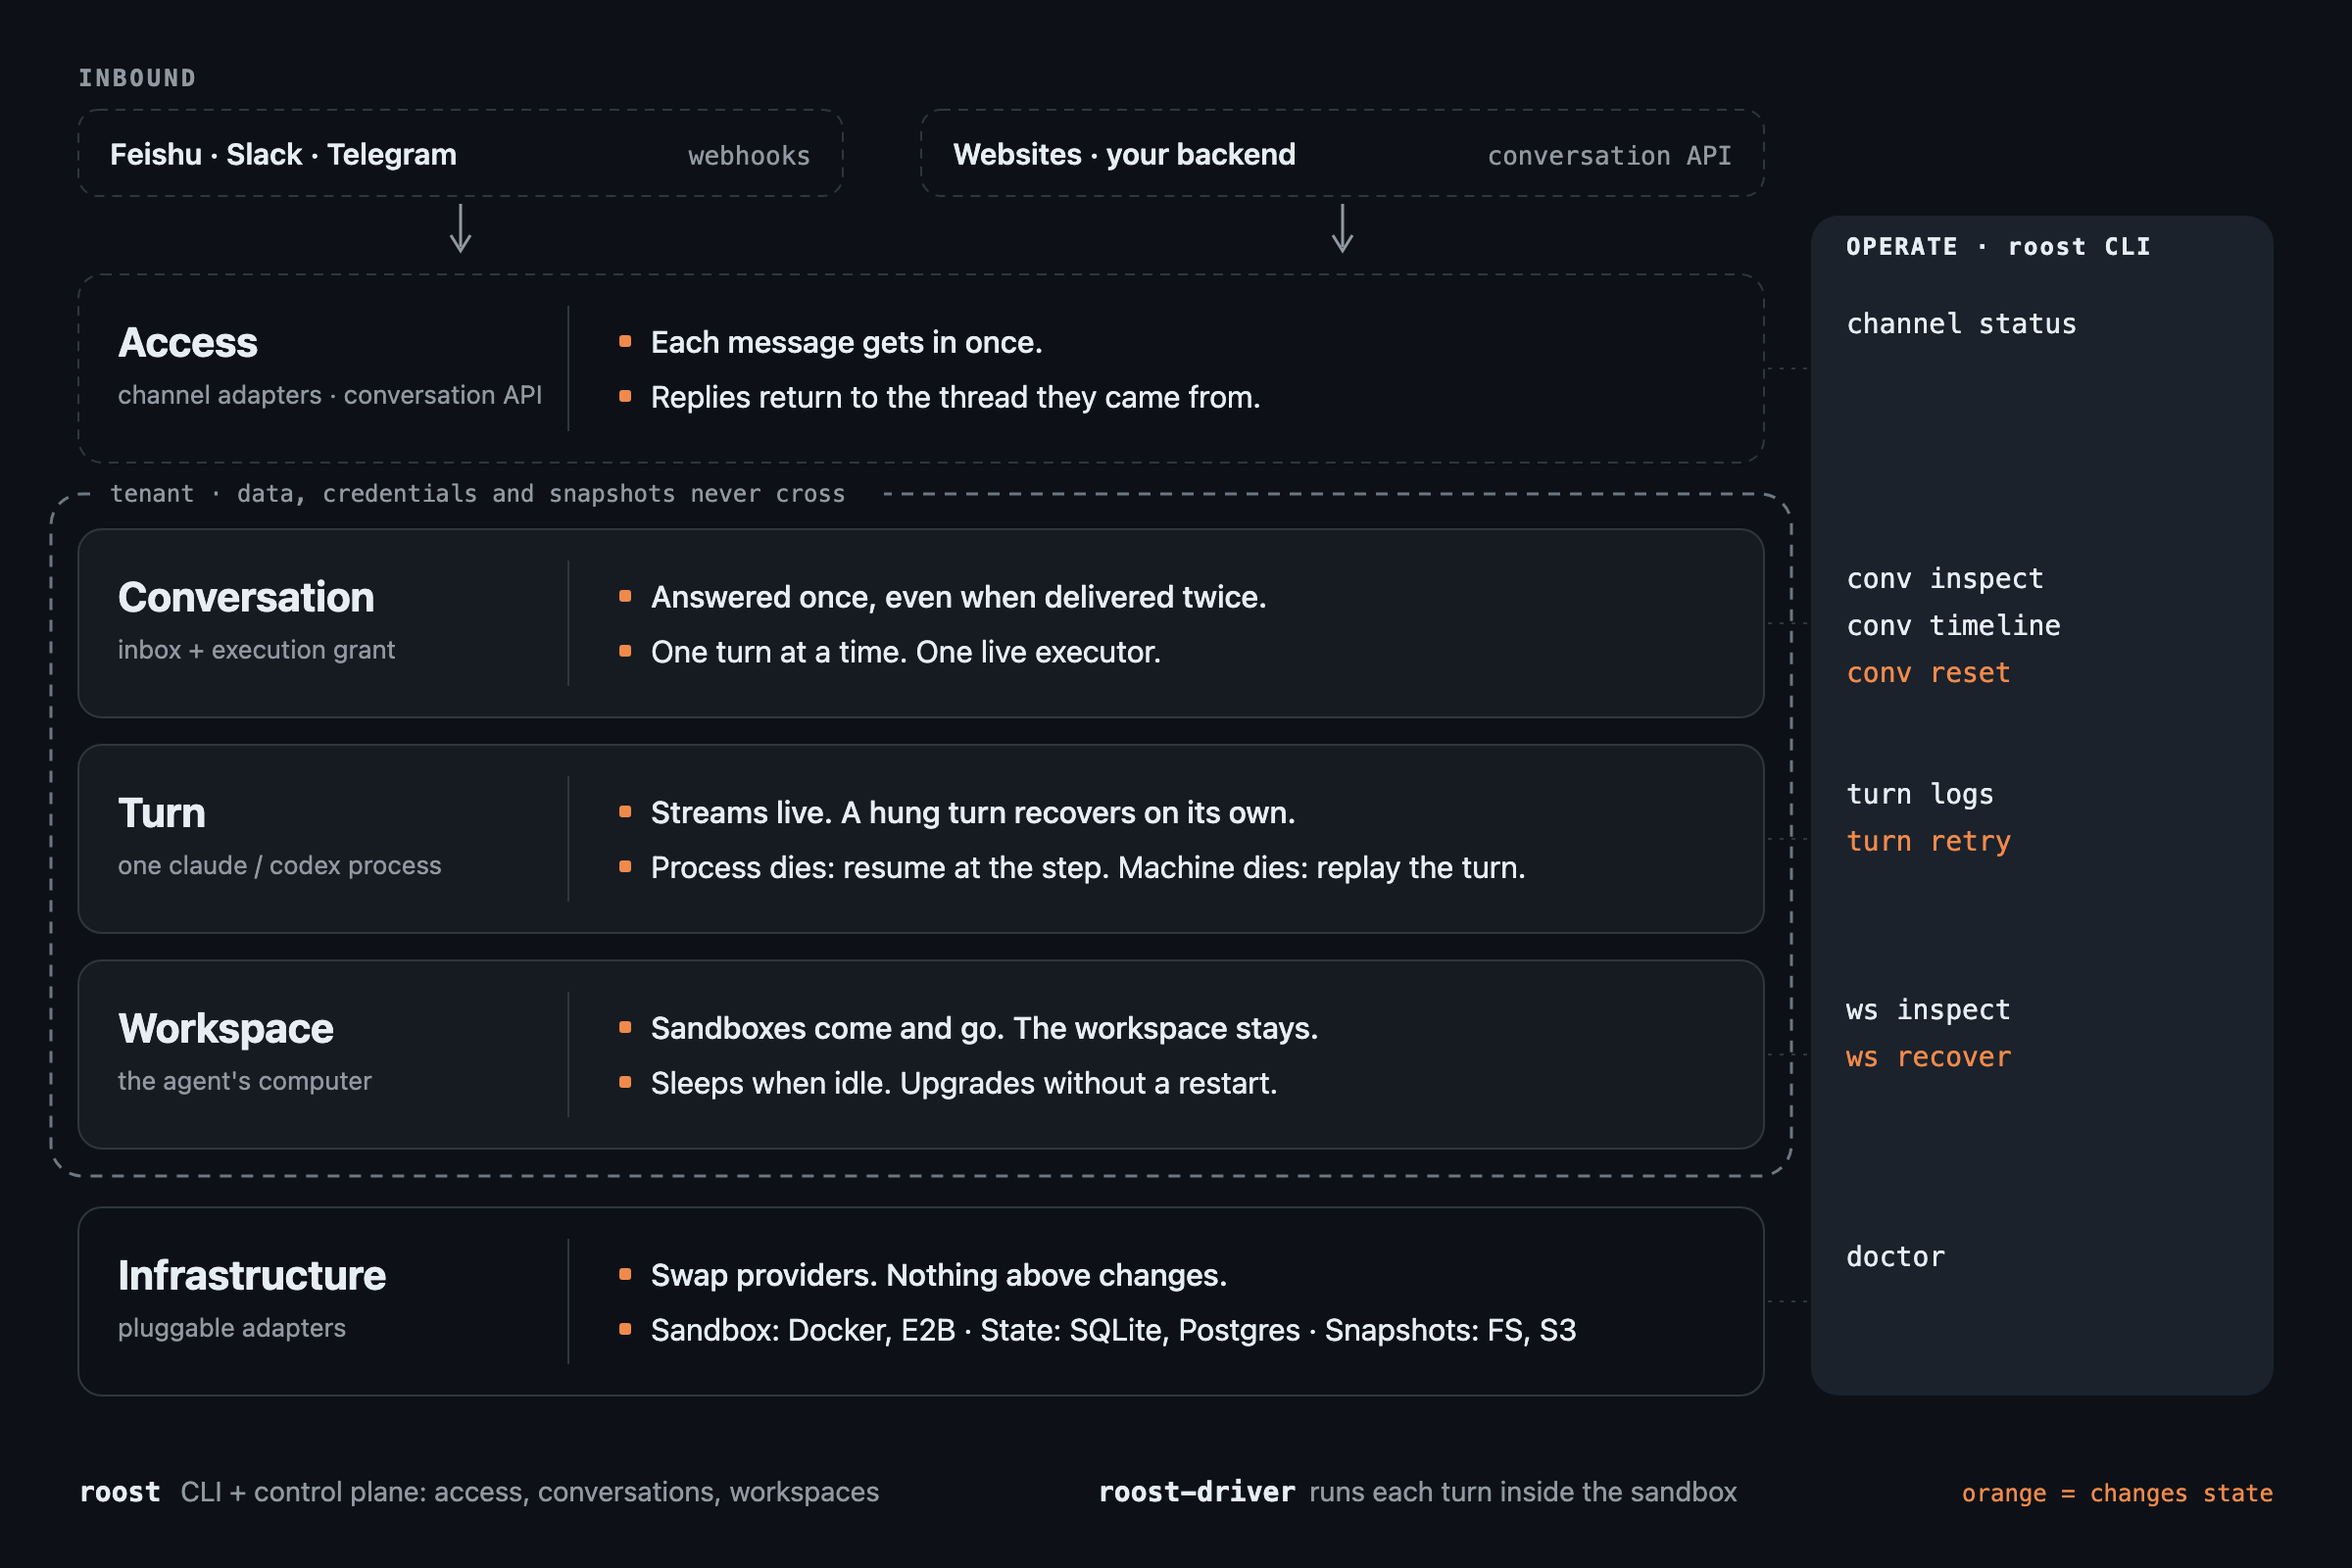
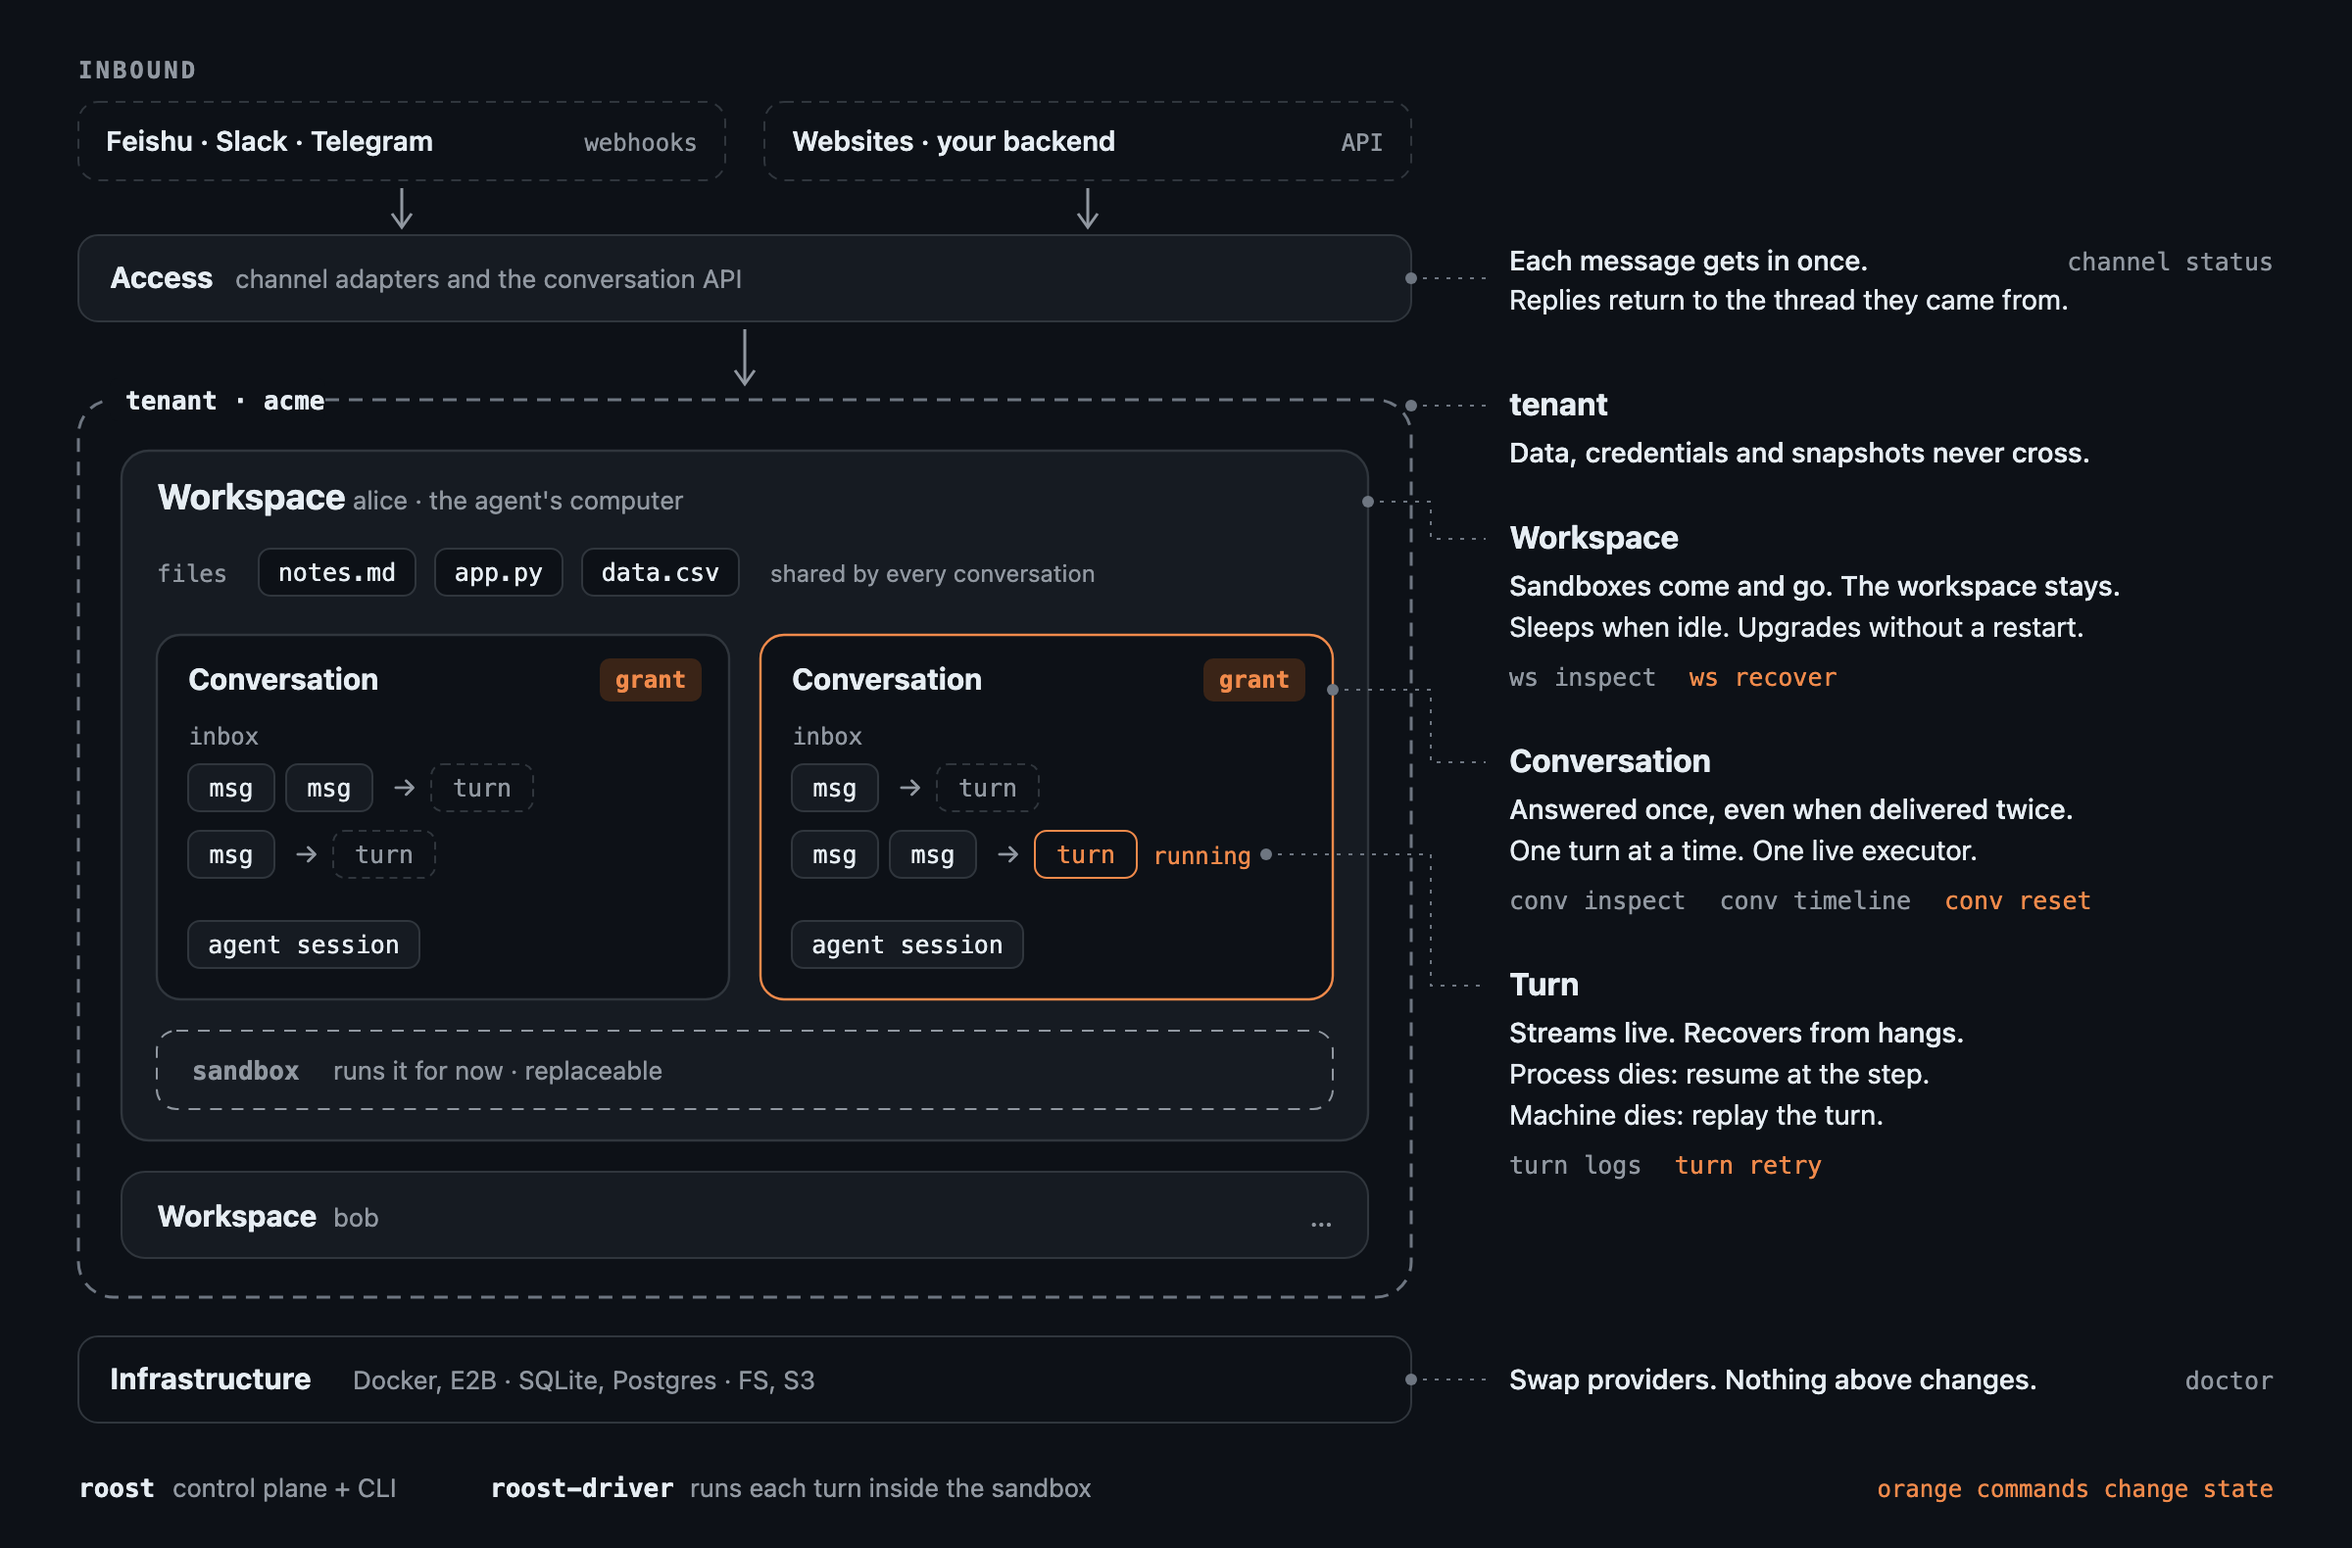
docs: draw the model as containment: tenant, workspace, conversation, turn

diff --git a/README.md b/README.md
@@ -25,7 +25,7 @@ roost takes them off your hands. You talk to an agent by its address: send messa
 
 <picture>
   <source media="(prefers-color-scheme: dark)" srcset="assets/architecture-dark.svg">
-  <img src="assets/architecture-light.svg" width="100%" alt="roost layers: access, conversation, turn, workspace and infrastructure, each with the guarantee it provides; operations run across all of them.">
+  <img src="assets/architecture-light.svg" width="100%" alt="A tenant contains workspaces; a workspace holds shared files, several conversations and the sandbox it currently runs on; each conversation has an inbox, a grant and one running turn. Each level lists its guarantees and operator commands.">
 </picture>
 
 You only need three words:
@@ -34,14 +34,14 @@ You only need three words:
 - **Conversation**: a thread inside a workspace, with its own inbox and context. Several conversations can share one workspace and see the same files.
 - **Turn**: one run of the agent over the messages waiting in the inbox.
 
-Each layer makes one kind of promise:
+Each level makes its own promise:
 
-| Layer | What roost does | What you can rely on |
+| Level | What roost does | What you can rely on |
 |---|---|---|
 | Access | Channel webhooks and the conversation API | Each message gets in once. Replies go back to the thread they came from. |
+| Workspace | Wakes a sandbox on demand, sleeps it when idle, snapshots, moves and upgrades it | The workspace survives any sandbox. Idle agents cost nothing. Upgrades don't restart conversations. |
 | Conversation | Deduplicates, queues and batches messages into turns; grants the right to execute | Answered once, even when delivered twice. One turn at a time, one live executor. |
 | Turn | Runs one `claude` or `codex` process per turn and watches it | Streams live. A hung turn recovers on its own. If the process dies, it resumes at the step; if the machine dies, the turn is replayed. |
-| Workspace | Wakes a sandbox on demand, sleeps it when idle, snapshots, moves and upgrades it | The workspace survives any sandbox. Idle agents cost nothing. Upgrades don't restart conversations. |
 | Infrastructure | Docker or E2B for sandboxes, SQLite or Postgres for state, a filesystem or S3 for snapshots | Swap a provider and nothing above changes. |
 
 Isolation is by tenant: data, credentials and snapshots never cross a tenant. Inside one workspace, conversations are separated logically but trust each other, the same way two terminal windows on one machine do.
@@ -71,12 +71,12 @@ By default each `owner` gets one workspace, so the same user's conversations sha
 
 The `roost` CLI covers every layer and is built for agents as much as for people: `--json` everywhere, stable schemas, meaningful exit codes, and a `SKILL.md` so Claude Code can run it.
 
-| Layer | Look | Act |
+| Level | Look | Act |
 |---|---|---|
 | Access | `roost channel status` | |
+| Workspace | `roost ws inspect` | `roost ws recover` |
 | Conversation | `roost conv inspect`, `roost conv timeline`, `roost conv transcript` | `roost conv reset` |
 | Turn | `roost turn logs` | `roost turn retry` |
-| Workspace | `roost ws inspect` | `roost ws recover` |
 | Everything | `roost status`, `roost doctor` | |
 
 Commands that change state need an operator token and a `--reason`, support `--dry-run`, and are audited. The CLI only talks to the control plane API, and it is not available inside sandboxes.
